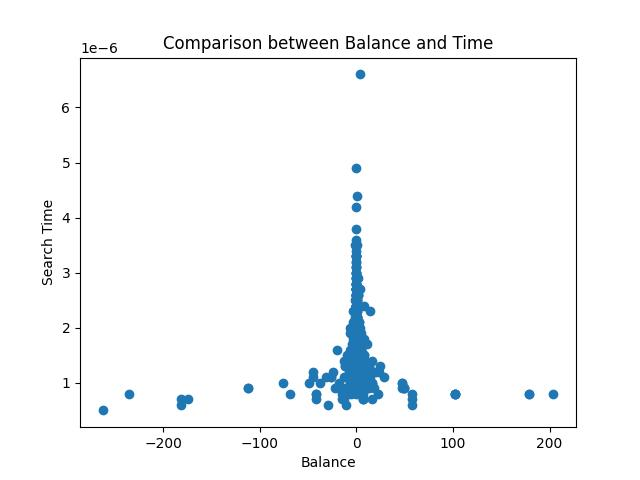
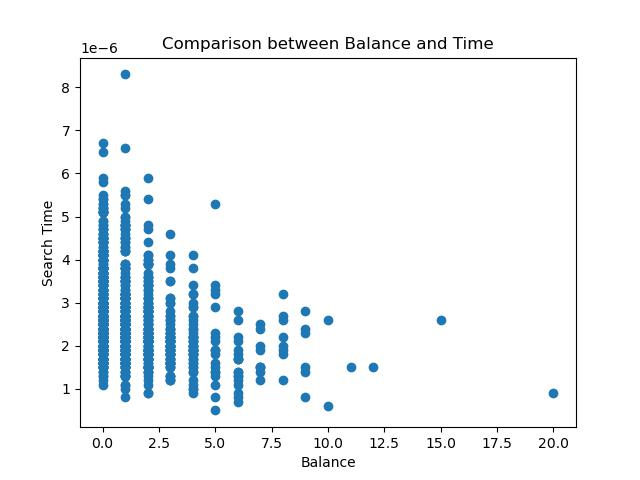
updates

diff --git a/ex1.py b/ex1.py
@@ -5,61 +5,49 @@ import matplotlib.pyplot as plt
 
 
 class Node:
-    def __init__(self, data, parent=None, left=None, right=None):
-        self.parent = parent
-        self.data = data
-        self.left = left
-        self.right = right
-        self.height = 1
-        self.balance = 0
+    def __init__(self, key):
+        self.key = key
+        self.left = None
+        self.right = None
 
-    
 class BinarySearchTree:
-    def insert(self, data, root=None):
-        current = root
-        parent = None
+    def __init__(self):
+        self.root = None
 
-        while current is not None:
-            parent = current
-            if data <= current.data:
-                current.balance = current.balance - 1
-                current = current.left
-                
-            else:
-                current.balance += 1
-                current = current.right
+    def insert(self, key):
+        self.root = self._insert(self.root, key)
 
-
-        newNode = Node(data, parent)
+    def _insert(self, root, key):
         if root is None:
-            root = newNode
-            return newNode
-        elif data <= parent.data:
-            parent.left = newNode
-        else:
-            parent.right = newNode
+            return Node(key)
+        if key < root.key:
+            root.left = self._insert(root.left, key)
+        elif key > root.key:
+            root.right = self._insert(root.right, key)
+        return root
 
-        balenceFactor = self.getBalance(root)
-    
-    def getBalance(self, root):
-        return root.balance
+    def search(self, key):
+        return self._search(self.root, key)
 
-    def search(self, data, root):
-        current = root
-        while current is not None:
-            if data == current.data:
-                return current
-            elif data <= current.data:
-                current = current.left
-            else:
-                current = current.right
-        return current
-    
-    def getHeight(self, root):
-        if not root:
+    def _search(self, root, key):
+        if root is None or root.key == key:
+            return root
+        if key < root.key:
+            return self._search(root.left, key)
+        return self._search(root.right, key)
+
+    def balance(self):
+        return self._balance(self.root)
+
+    def _balance(self, node):
+        if node is None:
             return 0
-        return root.height
+        return abs(self._height(node.left) - self._height(node.right))
 
+    def _height(self, node):
+        if node is None:
+            return 0
+        return 1 + max(self._height(node.left), self._height(node.right))
 
 
 # Build binary search tree
@@ -70,28 +58,26 @@ for data in range(0,1000):
 
 for i in range(1000):
     random.shuffle(numbers)
-rand = random.randint(0,999)
-root = Node(rand)
-numbers.remove(rand)
+
 for i in numbers:
-    tree.insert(i,root)
+    tree.insert(i)
 
 
 task = []
 for i in range(0,1000):
-    ranInt = random.randint(0,999)
-    task.append(ranInt)
+    task.append(i)
+    random.shuffle(task)
 times = []
 balanceValues = []
 
 for i in task:
-    times.append(timeit.timeit(lambda: tree.search(i,root),number=1))
-    node = tree.search(i,root)
-    balance = tree.getBalance(node)
+    times.append(timeit.timeit(lambda: tree.search(i),number=1))
+    node = tree.search(i)
+    balance = tree._balance(node)
     balanceValues.append(balance)
     
 max = max(balanceValues)
-
+print(max)
 
 # Plotting the distribution of times
 plt.scatter(balanceValues, times)
